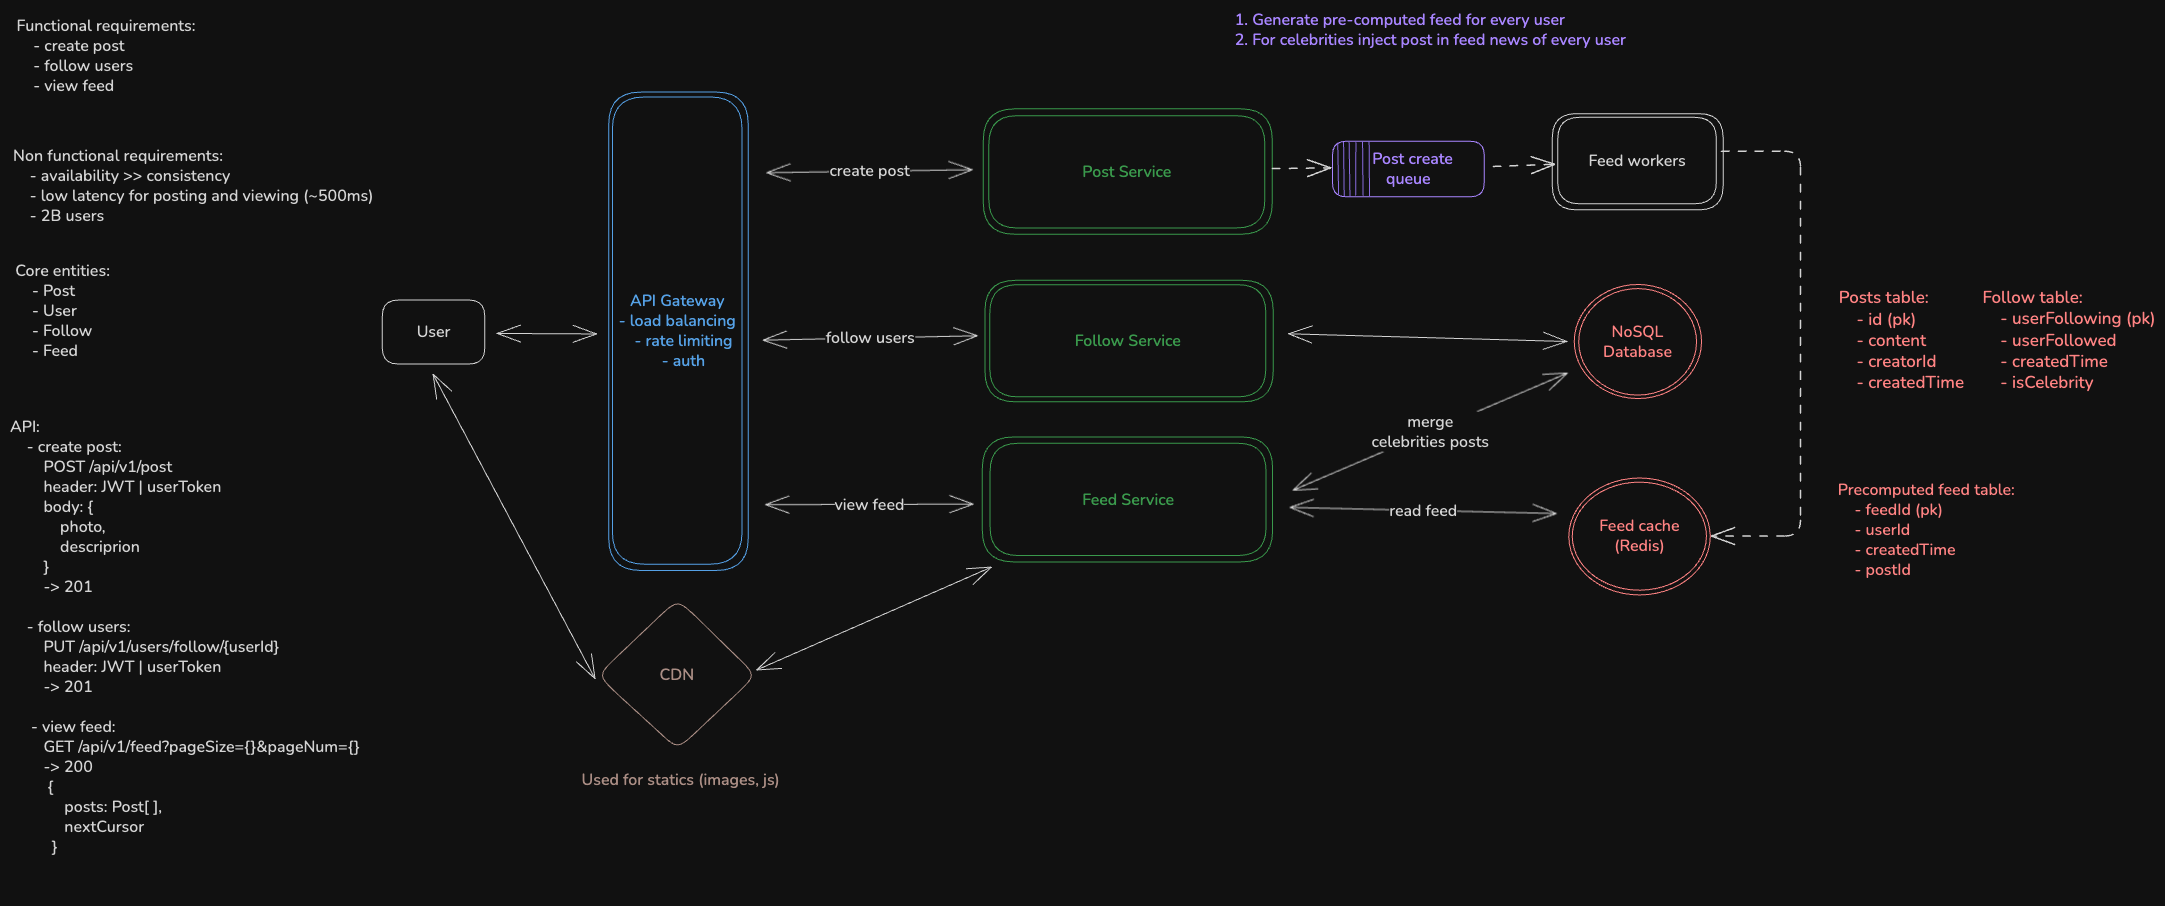
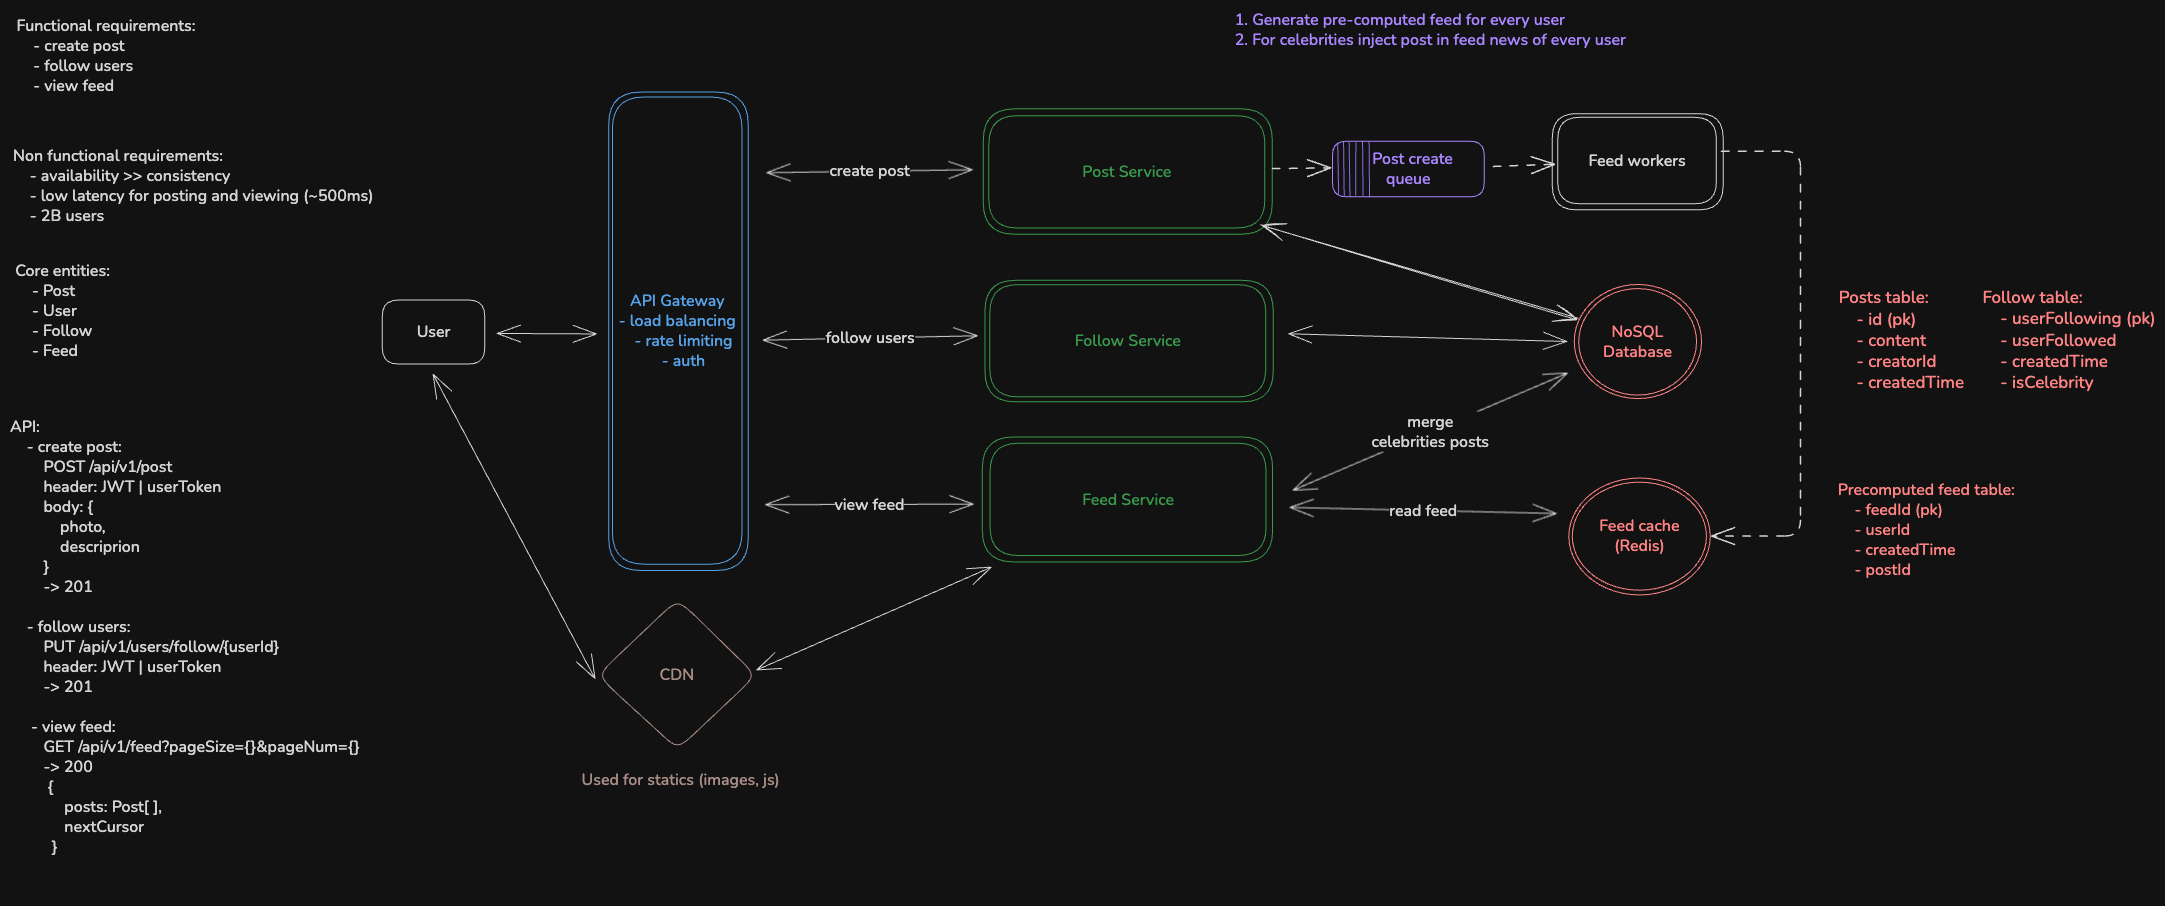
Expanded Excalidraw with improved bindings and added a new arrow element. Updated README with two new golden interview sentences.

diff --git a/README.MD b/README.MD
@@ -625,6 +625,8 @@
 ### Golden Interview Sentences
 
 - "High-level desing is in place, now let's go deeper"
+- "All systems have to be highly available and fault-tolerant, but what makes this system unique and interesting"
+- "I will come back to it, after satisfying all functional requirements"
 - "From a user experience perspective"
 - "For SQL database we could use normalization to keep other data in another table"
 - "For NoSQL database we could use denormalization to keep all data in one table"